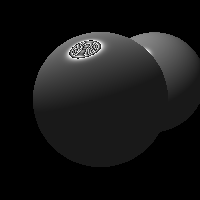
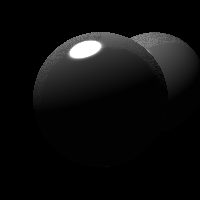
Correct Phong render

Changed region(s): [[0.3, 0.18, 0.57, 0.33], [0.72, 0.21, 0.78, 0.3]]

diff --git a/src/trace.rs b/src/trace.rs
@@ -27,24 +27,24 @@ fn trace_intersection(r: &Ray, intersection: Intersection, depth: i32, s: &Scene
         let shadow_intersection = s.objects.nearest_intersection(&shadow_ray, light_vec.norm(), 0.1, None); 
 
         match shadow_intersection {
-            Some(x) => (
+            Some(_) => (
                     // Point in shadow...
                 ),
             None => (
-                out = out + trace_for_light(&r, &light_vec, &light, &intersection, depth, &s)
+                out = out + trace_for_light(&r, &light_vec, &light, &intersection, &s)
                 ),
         }
     }
-    /*
-    if depth < s.max_depth {
-        out = out + reflection(r, &intersection, depth, s);
+
+    if s.reflection && depth < s.max_depth {
+        out = out + reflection(r, &intersection, depth + 1, s);
     }
-    */
+
     return out;
 }
 
-fn trace_for_light(r: &Ray, light_vec: &Vec3<f64>, l: &Light, intersection: &Intersection, depth: i32, s: &Scene) -> Color {
-    return diffuse(&intersection, &light_vec, &l) + specular(r, intersection, light_vec);
+fn trace_for_light(r: &Ray, light_vec: &Vec3<f64>, l: &Light, intersection: &Intersection, s: &Scene) -> Color {
+    return diffuse(&intersection, &light_vec, &l, s) + specular(r, intersection, light_vec, s);
 }
 
 
@@ -52,7 +52,10 @@ fn ambient(intersection: &Intersection, s: &Scene) -> Color {
     return intersection.object.get_material().pigment * s.ambient;
 }
 
-fn specular (r: &Ray, intersection: &Intersection, light_vec: &Vec3<f64>) -> Color {
+fn specular (r: &Ray, intersection: &Intersection, light_vec: &Vec3<f64>, s: &Scene) -> Color {
+    if !s.specular {
+        return Color::black();
+    }
     let ln = light_vec.normalize();
     let refl = ln - (intersection.normal * (2.0 * intersection.normal.dot(&ln) ) ); 
     let dp = refl.dot(&r.rd);
@@ -66,9 +69,11 @@ fn specular (r: &Ray, intersection: &Intersection, light_vec: &Vec3<f64>) -> Col
 }
 
 // Lambertian
-fn diffuse (i: &Intersection, light_vec: &Vec3<f64>, light: &Light) -> Color {
-    let diffuse_scale = (light_vec.normalize().dot(&i.normal) * light.intensity)
-;
+fn diffuse (i: &Intersection, light_vec: &Vec3<f64>, light: &Light, s: &Scene) -> Color {
+    if !s.diffuse {
+        return Color::black();
+    }
+    let diffuse_scale = light_vec.normalize().dot(&i.normal) * light.intensity;
     if diffuse_scale.is_sign_positive() {
         return i.object.get_material().pigment * diffuse_scale;
     }

diff --git a/src/color.rs b/src/color.rs
@@ -22,19 +22,8 @@ impl Color {
         return Color::new(1f64,1f64,1f64);
     }
 
-
-    pub fn limit(self) -> Color {
-        return Color {
-            rgb: Vec3::new(
-                self.rgb[0].min(1f64),
-                self.rgb[1].min(1f64),
-                self.rgb[2].min(1f64),
-                )
-        }
-    }
-
     pub fn to_u8(&self) -> (u8, u8, u8) {
-        return ((self.rgb[0] * 255f64) as u8, (self.rgb[1] * 255f64) as u8, (self.rgb[2] * 255f64) as u8);
+        return ((self.rgb[0] * 255f64).min(255f64) as u8, (self.rgb[1] * 255f64).min(255f64) as u8, (self.rgb[2] * 255f64).min(255f64) as u8);
     }
 }
 

diff --git a/src/rendercontext.rs b/src/rendercontext.rs
@@ -1,5 +1,4 @@
 use color::Color;
-use std::u8;
 // The render context is the data structure
 // that holds state about the current render.
 // 
@@ -26,7 +25,7 @@ impl RenderContext {
     pub fn get_pixel(&self, x:u32, y:u32) -> Color {
         return self.image[ (y*self.width + x) as usize ]
     }
-
+/*
     pub fn get_pixel_array(&self) -> Vec<u8> {
         let len = (self.width * self.height) as usize;
         let mut out: Vec<u8> = vec![0; len * 3];
@@ -41,4 +40,5 @@ impl RenderContext {
 
         return out;
     }
+    */
 }

diff --git a/src/scene.rs b/src/scene.rs
@@ -14,6 +14,11 @@ pub struct Scene {
 
     pub ambient: f64,
     pub max_depth: i32,
+
+
+    pub reflection: bool,
+    pub specular: bool,
+    pub diffuse: bool,
 }
 
 impl Scene {
@@ -50,9 +55,13 @@ impl Scene {
             height: height,
             camera: c,
             objects: o,
-            ambient: 0.2f64,
+            ambient: 0.02f64,
             max_depth: 2,
-            lights: l
+            lights: l,
+
+            reflection: true,
+            specular: true,
+            diffuse: true,
         };
     }
 }

diff --git a/src/intersection.rs b/src/intersection.rs
@@ -9,6 +9,7 @@ pub struct Intersection<'a> {
 }
 
 impl <'a> Intersection<'a> {
+    /*
     pub fn new(dist: f64, point: Vec3<f64>, normal: Vec3<f64>, object: &'a SceneObject) -> Intersection<'a> {
         return Intersection {
             dist: dist,
@@ -17,4 +18,5 @@ impl <'a> Intersection<'a> {
             object: object,
         }
     }
+    */
 }

diff --git a/src/material.rs b/src/material.rs
@@ -12,7 +12,7 @@ impl Material {
         Material {
             pigment: Color::new(0.5f64, 0.5f64, 0.5f64),
             reflection: 0.2,
-            phong: 40f64,
+            phong: 80f64,
         }
     }
 }

diff --git a/src/scenegraph.rs b/src/scenegraph.rs
@@ -1,6 +1,5 @@
 use ray::Ray;
 use intersection::Intersection;
-use na::Vec3;
 use sceneobject::SceneObject;
 
 pub struct SceneGraph {
